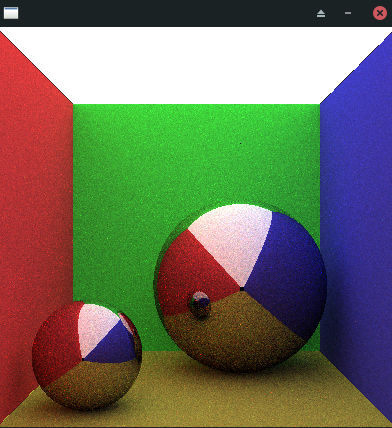
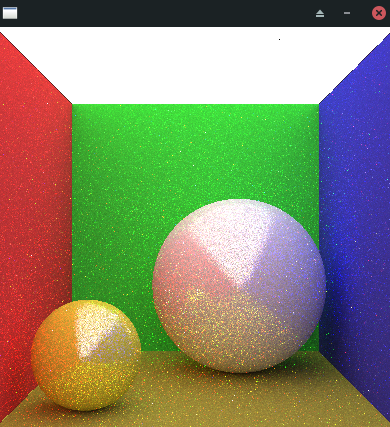
fix last errors

diff --git a/Scene/Reflection.h b/Scene/Reflection.h
@@ -16,8 +16,8 @@ public:
         this->width = width;
         this->height = height;
         objects = new std::vector<Sphere *>{
-                new Sphere{glm::vec3{-0.6, -0.7, -0.6}, 0.3, 0xDDDD11, 1},
-                new Sphere{glm::vec3{0.3, -0.4, 0.3}, 0.6, 0xDDDDDD, 1},
+                new Sphere{glm::vec3{-0.6, -0.7, -0.6}, 0.3, 0xDDDD11, true},
+                new Sphere{glm::vec3{0.3, -0.4, 0.3}, 0.6, 0xDDDDDD, true},
                 new Sphere{
                         glm::vec3{0, 0, 1001},
                         1000,
@@ -107,9 +107,6 @@ public:
 #define fRand() (((float) ((int) rand())) / (RAND_MAX / 2) - 1)
 #define p 0.1
     Color ComputeColor(glm::dvec3 origin, glm::dvec3 direction, int count) {
-
-        // auto r = Ray(origin, direction);
-
         Sphere *closest = nullptr;
         glm::dvec3 *hp_ = ClosestVectorFrom(origin, direction, closest);
 
@@ -143,17 +140,7 @@ public:
 
         auto nextEmission = ComputeColor(hp, randomDir, count + 1);
 
-        Color *specular = nullptr;
-
-        if (closest->reflectivity > 0) {
-            double nl = glm::length(n);
-            auto r = direction - (glm::dot(direction * glm::dvec3(2, 2, 2), n)) / (nl * nl) * n;
-            Color next = ComputeColor(hp, r, count + 1);
-            specular = &next;
-        }
-
-
-        Color ownColor = closest->BRDF(0, 0, specular) * (glm::dot(n, randomDir) * ((2 * PI) / (1 - p)));
+        Color ownColor = closest->BRDF(nextEmission, direction, n, randomDir) * (glm::dot(n, randomDir) * ((2 * PI) / (1 - p)));
         Color res = closest->emission + nextEmission * ownColor;
         delete hp_;
         return res;

diff --git a/Scene/Texture.h b/Scene/Texture.h
@@ -65,8 +65,9 @@ public:
     void GetPixels() override {
         glm::dvec3 up = glm::vec3(0, 1, 0);
 
-        auto r = glm::normalize(glm::cross(up, lookAt));
-        auto u = glm::normalize(glm::cross(lookAt, r));
+        auto direction = glm::normalize(lookAt - eye);
+        auto r = glm::normalize(glm::cross(up, direction));
+        auto u = glm::normalize(glm::cross(direction, r));
 
         double fovScale = std::tan(fov / 2);
         for (auto i = 0; i < width * height; i++) {
@@ -78,7 +79,7 @@ public:
             y = (y / ((float) height / 2) - 1) * fovScale;
             auto tmp = r * glm::dvec1(fovScale * x);
             auto tmp2 = u * (-fovScale * y);
-            glm::dvec3 d = glm::normalize(lookAt) + tmp + tmp2;//  lookAt.no.plus(&tmp).plus(&tmp2);
+            glm::dvec3 d = direction + tmp + tmp2;//  lookAt.no.plus(&tmp).plus(&tmp2);
 
             pixels[i] = 0;
 

diff --git a/Scene/ExampleScene2.h b/Scene/ExampleScene2.h
@@ -74,8 +74,10 @@ public:
     void GetPixels() override {
         glm::dvec3 up = glm::vec3(0, 1, 0);
 
-        auto r = glm::normalize(glm::cross(up, lookAt));
-        auto u = glm::normalize(glm::cross(lookAt, r));
+
+        auto direction = glm::normalize(lookAt - eye);
+        auto r = glm::normalize(glm::cross(up, direction));
+        auto u = glm::normalize(glm::cross(direction, r));
 
         double fovScale = std::tan(fov / 2);
         for (auto i = 0; i < width * height; i++) {
@@ -87,7 +89,7 @@ public:
             y = (y / ((float) height / 2) - 1);
             auto tmp = r * glm::dvec1(fovScale * x);
             auto tmp2 = u * (-fovScale * y);
-            glm::dvec3 d = glm::normalize(lookAt) + tmp + tmp2;//  lookAt.no.plus(&tmp).plus(&tmp2);
+            glm::dvec3 d = direction + tmp + tmp2;//  lookAt.no.plus(&tmp).plus(&tmp2);
 
             pixels[i] = 0;
 

diff --git a/Geometry/Sphere/Sphere.cpp b/Geometry/Sphere/Sphere.cpp
@@ -50,9 +50,15 @@ glm::dvec3 *Sphere::ClosestIntersection(glm::dvec3 origin, glm::dvec3 direction)
     glm::dvec3 res = u * glm::dvec1(best) + (origin);
     return new glm::dvec3{res.x, res.y, res.z};
 }
-Color Sphere::BRDF(int x, int y, Color *specular) {
-    if (specular != nullptr) {
-       return (this->color * (1 - reflectivity) + ((*specular) * reflectivity)) * (1. / M_PI);
+
+#define theta 0.01
+#define micro 20.
+
+Color Sphere::BRDF(Color specular, glm::dvec3 direction, glm::dvec3 normal, glm::dvec3 w) {
+    double nl = glm::length(normal);
+    auto cameraReflection = direction - (glm::dot(direction * glm::dvec3(2, 2, 2), normal)) / (nl * nl) * normal;
+    if (reflectivity && glm::dot(glm::normalize(cameraReflection), w) > (1 - theta)) {
+        return (this->color + (specular * micro)) * (1. / M_PI);
     }
 
     return this->color * (1. / M_PI);

diff --git a/Scene/AntiAliasing.h b/Scene/AntiAliasing.h
@@ -69,8 +69,8 @@ public:
 
             for (int aa = 0; aa < iterations; aa++) {
 
-                float xShifted =  glm::gaussRand(x,aa_sigma);
-                float yShifted =  glm::gaussRand(y,aa_sigma);
+                float xShifted = glm::gaussRand(x, aa_sigma);
+                float yShifted = glm::gaussRand(y, aa_sigma);
                 //pixel = (vertical + (i / width)) * width + ((horizontal + i) % width);
                 // x,y from -1 to 1
                 xShifted = (xShifted / ((float) width / 2) - 1) * aspectRatio;

diff --git a/Geometry/Sphere/Sphere.h b/Geometry/Sphere/Sphere.h
@@ -15,7 +15,7 @@ public:
     double radius;
     Color color;
     Color emission;
-    double reflectivity = 0;
+    bool reflectivity = false;
     uint32_t *texture = nullptr;
     uint16_t textureWidth;
     uint16_t textureHeight;
@@ -29,7 +29,7 @@ public:
 
     Color emissionF(int x, int y);
 
-    Color BRDF(int x, int y, Color *specular);
+    Color BRDF(Color specular, glm::dvec3 direction, glm::dvec3 normal, glm::dvec3 w);
     Color BRDF(int x, int y);
 };
 

diff --git a/main.cpp b/main.cpp
@@ -27,7 +27,7 @@
 #define SCENE1 7
 #define SCENE2 8
 
-#define ACTIVE 6
+#define ACTIVE 4
 
 #if ACTIVE == 6
 #undef WIDTH
